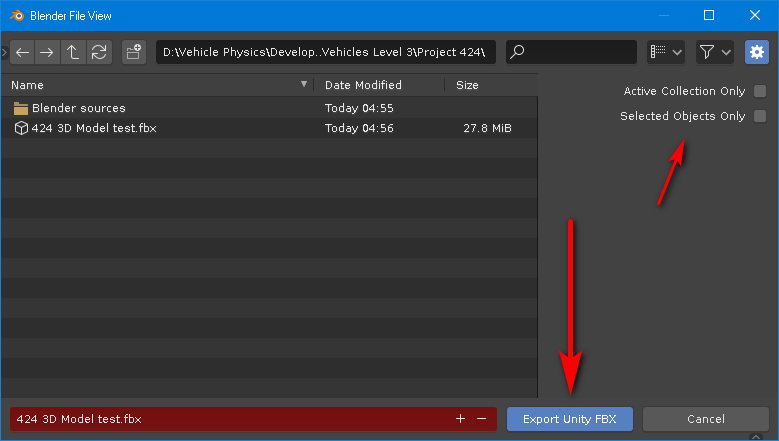
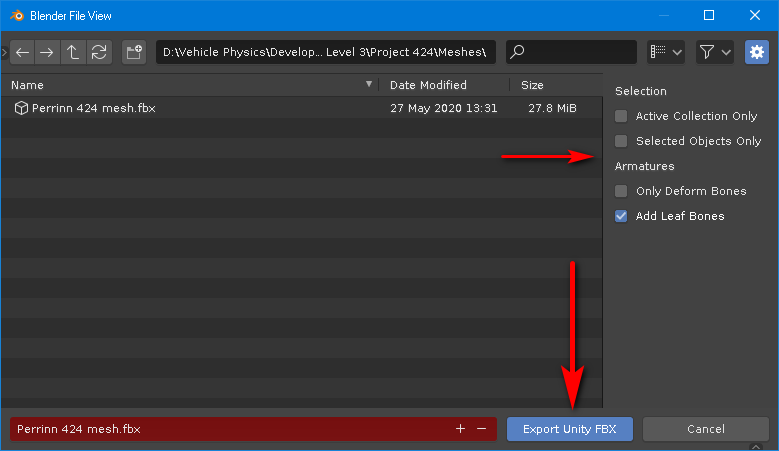
Options formatted. Updated readme picture.

diff --git a/blender-to-unity-fbx-exporter.py b/blender-to-unity-fbx-exporter.py
@@ -277,6 +277,25 @@ class ExportUnityFbx(Operator, ExportHelper):
 		default=True,
 	)
 
+	# Custom draw method
+	# https://blender.stackexchange.com/questions/55437/add-gui-elements-to-exporter-window
+	# https://docs.blender.org/api/current/bpy.types.UILayout.html
+
+	def draw(self, context):
+		layout = self.layout
+		row = layout.row()
+		row.label(text = "Selection")
+		row = layout.row()
+		row.prop(self, "active_collection")
+		row = layout.row()
+		row.prop(self, "selected_objects")
+		row = layout.row()
+		row.label(text = "Armatures")
+		row = layout.row()
+		row.prop(self, "deform_bones")
+		row = layout.row()
+		row.prop(self, "leaf_bones")
+
 	def execute(self, context):
 		return export_unity_fbx(context, self.filepath, self.active_collection, self.selected_objects, self.deform_bones, self.leaf_bones)
 
